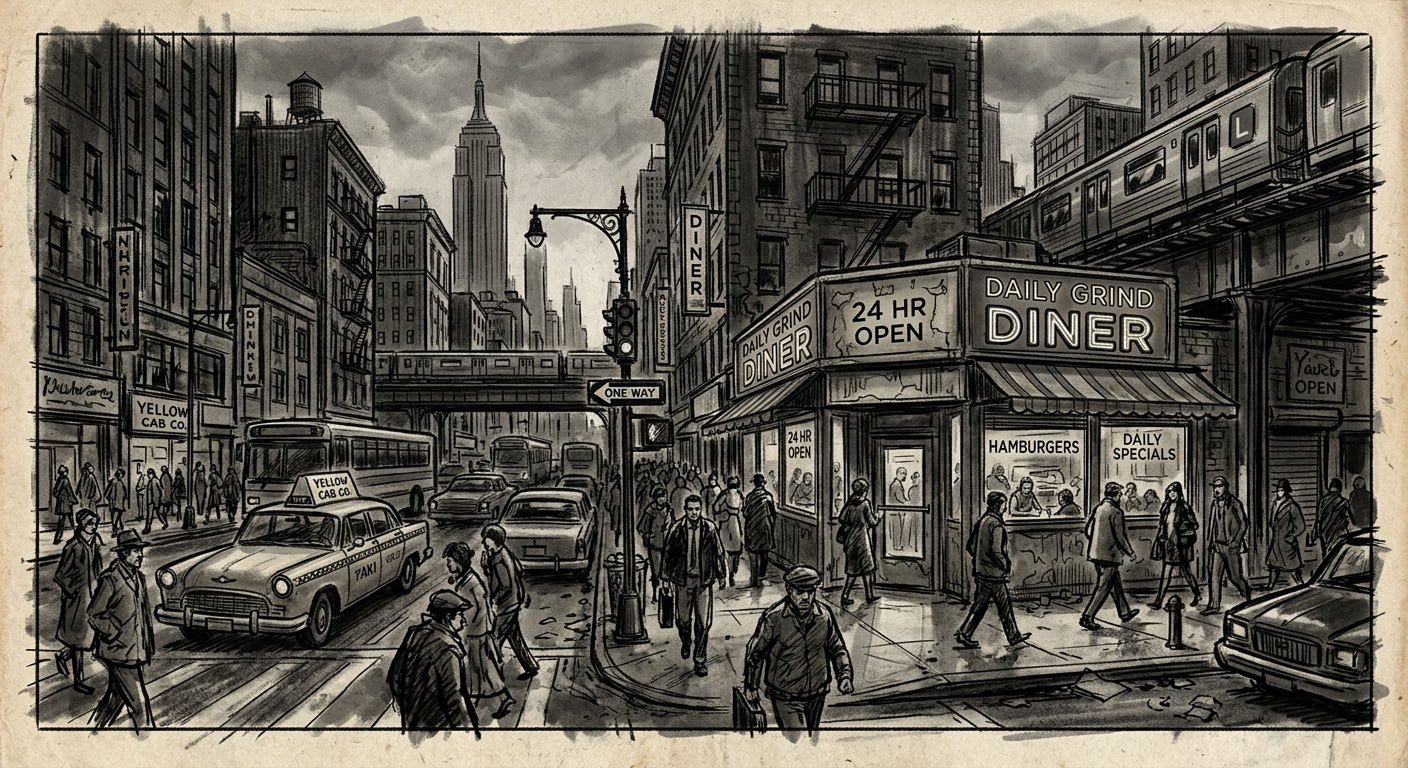
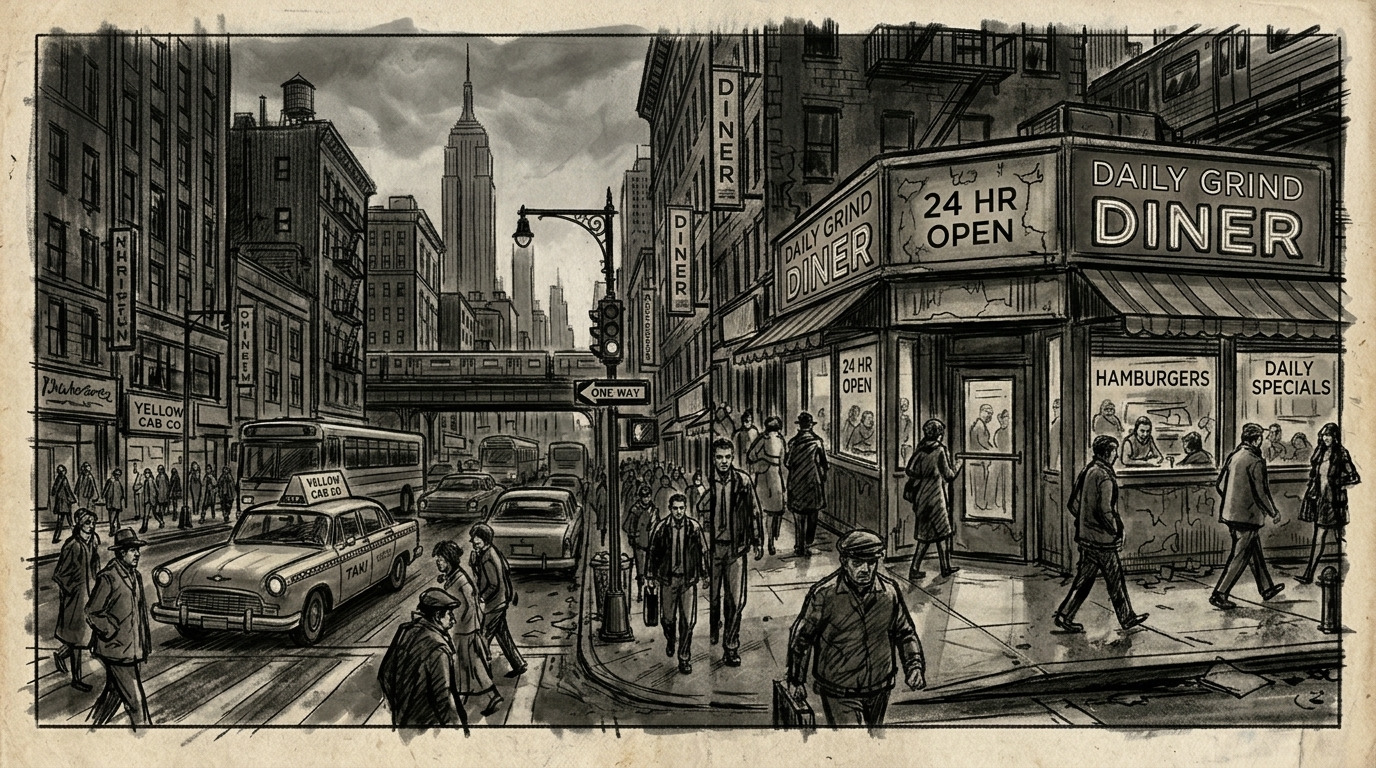
Added previous panels to reference images for panel creation

diff --git a/backend/src/project/panel.py b/backend/src/project/panel.py
@@ -100,7 +100,17 @@ class Panel(Base):
         
         project_static_path = Path("./uploads/projects", repr(project.id))
         
-        prompt = "Write only a description of a single storyboard drawing for an image generation ai and nothing else based on this json describing the scene. Make sure to mention that it is a sketch and not to include a border or margin around the sketch. The \"character image numbers\" field in the objects in the \"characters\" list field represents which provided image corresponds to which character. These images will be supplied in this numbered order as reference images to nanobanana: "
+        prev_panels_path = project_static_path / "panels"
+
+        prev_panel_images = []
+
+        for panel_path in [f for f in prev_panels_path.iterdir() if f.is_file()]:
+            prev_panel_images.append(Image.open(panel_path))
+
+
+        panels_string_injection = f'Menton that the first {f"{len(prev_panel_images)} " if len(prev_panel_images) else ""}image{"s" if len(prev_panel_images) > 1 else ""} are the previous panels. ' if len(prev_panel_images) else ""
+
+        prompt = f"Write only a description of a single storyboard drawing for an image generation ai and nothing else based on this json describing the scene. {panels_string_injection}Make sure to mention that it is a sketch and not to include a border or margin around the sketch. The \"character image numbers\" field in the objects in the \"characters\" list field represents which provided image corresponds to which character. These images will be supplied in this numbered order as reference images to nanobanana. Make sure to explain which image is which character by its character image number: "
         data = {
             "camera shot":self.camera_shot,
             "location":self.location,
@@ -141,7 +151,7 @@ class Panel(Base):
             
             data["characters"].append(character_json)
 
-        if len(character_images) > 14:
+        if len(character_images) + len(prev_panel_images) > 14:
             raise RuntimeError("You cannot exceed 14 character images.")
 
         # remove all of the Nones
@@ -163,7 +173,7 @@ class Panel(Base):
 
         response = GEMINI_CLIENT.models.generate_content(
             model="gemini-3.1-flash-image-preview",
-            contents=[generated_prompt, *character_images],
+            contents=[generated_prompt, *prev_panel_images, *character_images],
             config=types.GenerateContentConfig(
                 response_modalities=["IMAGE"],
             )
